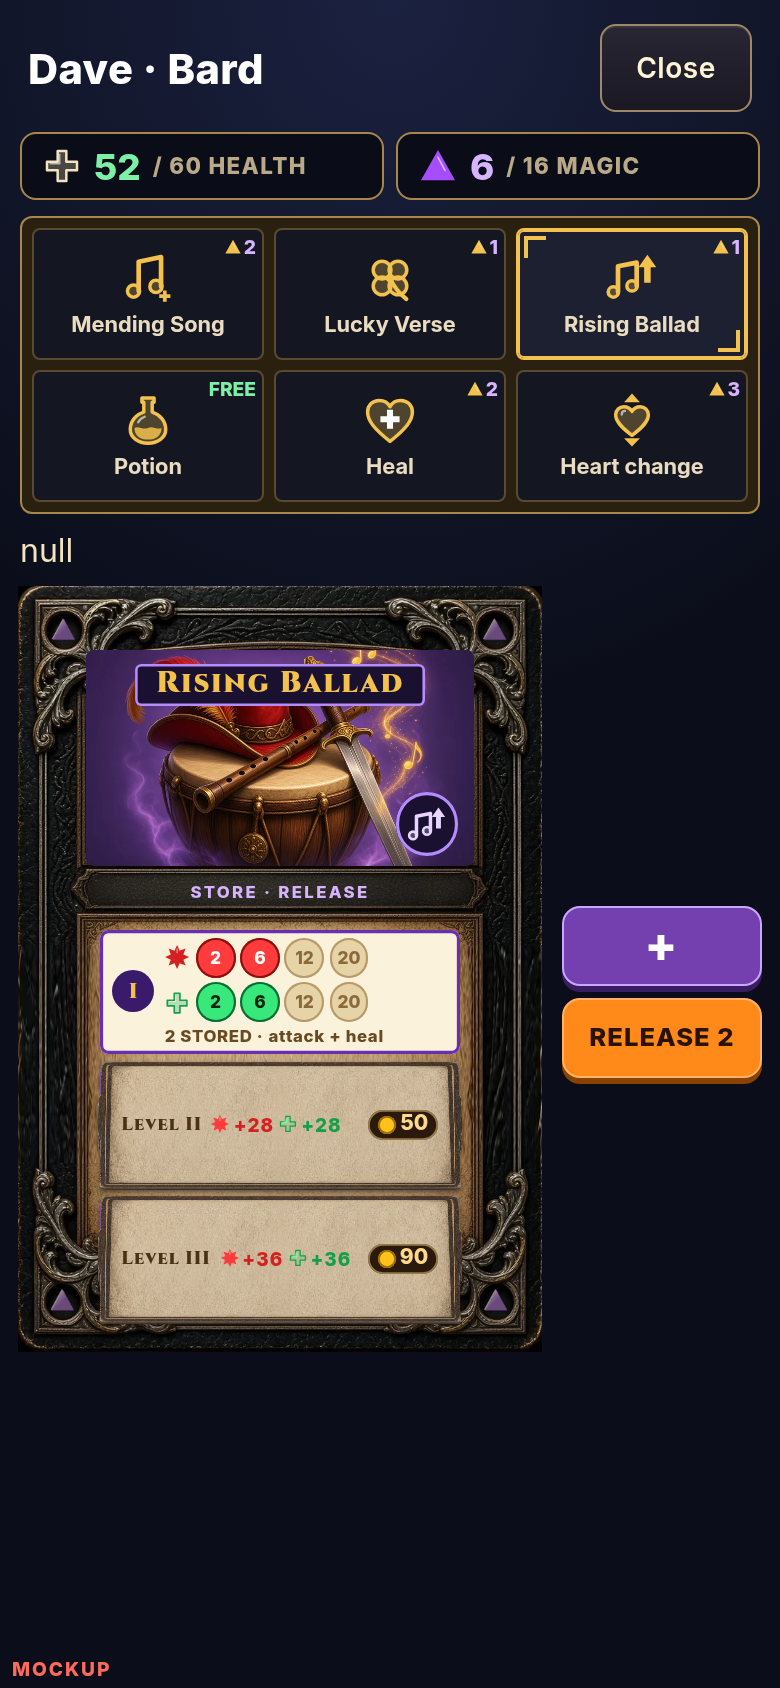
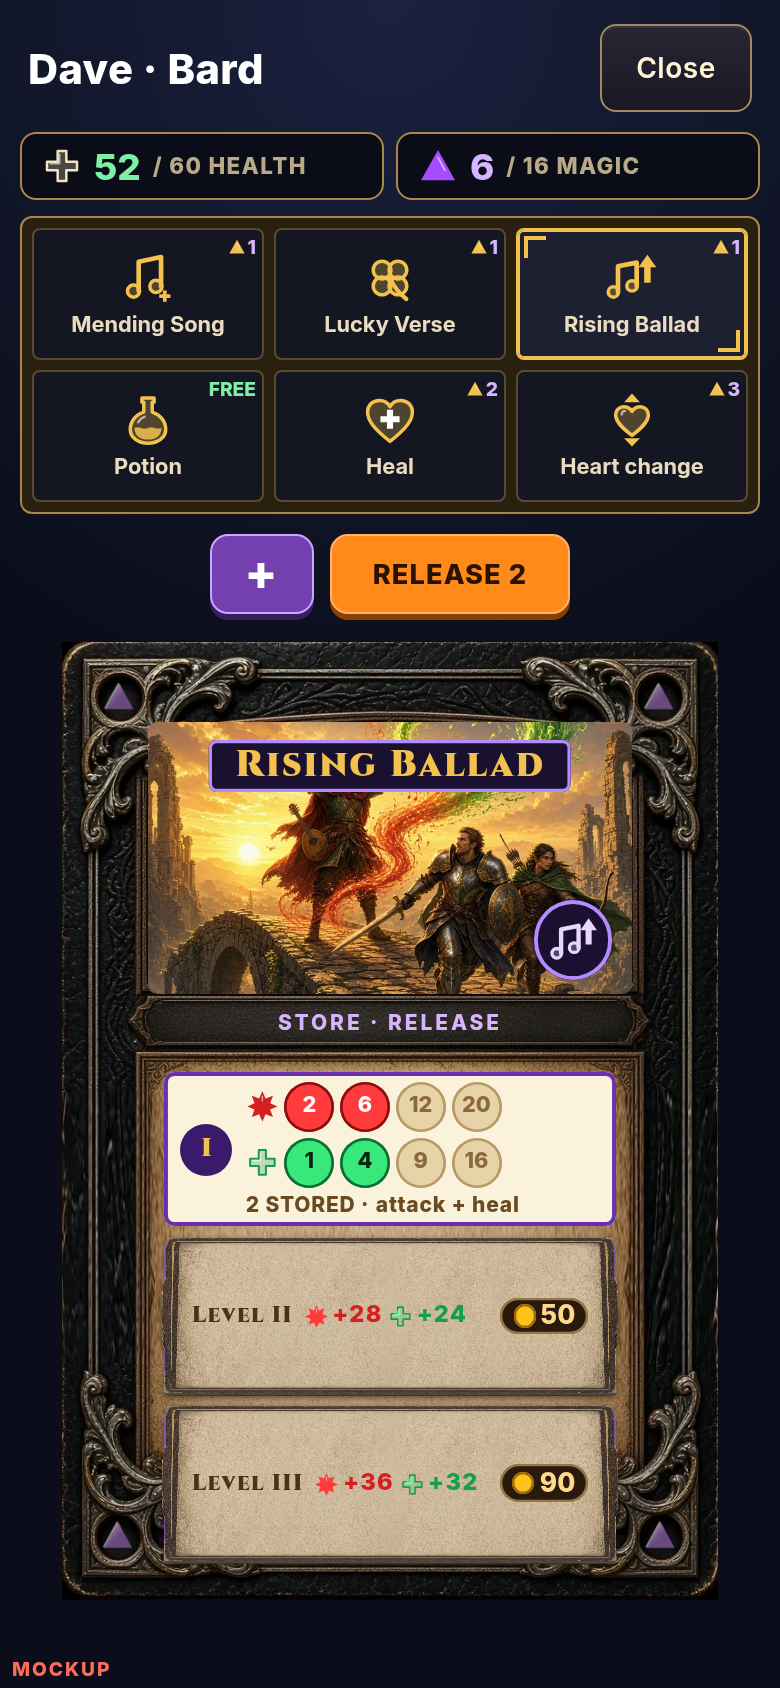
Mockup only: t424 Bard set + Dwarf decisions

diff --git a/docs/team/mockups/magiccards/magic.js b/docs/team/mockups/magiccards/magic.js
@@ -26,18 +26,18 @@ const PROP = cls === 'ranger' ? [
   { id: 'vein', slot: 'C', name: 'Gold Vein', kind: 'flat', cost: 1, fx: { block: 2, gold: 2 }, note: 'BLOCK + GOLD EVERY ROUND', prop: true },
 ] : [];
 // t422 PROPOSED tweaks shown in the mockup only (live data untouched): Rally block 3->2, Judgment area 12->10, Arc Bolt arcs (½ splash) + max 6 dice, Storm Coil per 5->4
-const TWEAK = { dwarf: { grudge: { kind: 'trick', cost: 2, fx: { atk: 1 }, lv: ['HITS TAKEN', 'HITS TAKEN +3', 'HITS TAKEN +6'], note: 'ATTACK = DAMAGE YOU TOOK LAST ROUND', prop: true }, avalanche: { aoe: 8 } }, knight: { rally: { per: { atk: 3, block: 2 } }, judgment: { aoe: 10 } }, wizard: { arcbolt: { splash: 'half', maxDice: 6, note: '½ ARCS TO EVERY OTHER MONSTER' }, coil: { per: { atk: 4 } } } };
+const TWEAK = { bard: { mending: { kind: 'scale', cost: 1, max: 6, maxDice: 6, dice: { n: 1, s: 6, to: 'heal' }, note: 'HEALS EVERY HERO IN THE PARTY', prop: true }, ballad: { per: { atk: 3, heal: 2 } }, finale: { aoe: 6 } }, dwarf: { grudge: { kind: 'trick', cost: 2, fx: { atk: 1 }, lv: ['HITS TAKEN', 'HITS TAKEN +3', 'HITS TAKEN +6'], note: 'ATTACK = DAMAGE YOU TOOK LAST ROUND', prop: true }, avalanche: { aoe: 8 } }, knight: { rally: { per: { atk: 3, block: 2 } }, judgment: { aoe: 10 } }, wizard: { arcbolt: { splash: 'half', maxDice: 6, note: '½ ARCS TO EVERY OTHER MONSTER' }, coil: { per: { atk: 4 } } } };
 if (TWEAK[cls]) C.cards = C.cards.map((k) => (TWEAK[cls][k.id] ? { ...k, ...TWEAK[cls][k.id] } : k));
 if (PROP.length) C.cards = [...C.cards, ...PROP.filter((k) => k.prop)];
 // t413 PROPOSED Aimed Shot path: I = up to 4d6, II = dice become d8 (up to 4d8), III = up to 6d8. 1 magic per die throughout.
 const AIM = [{ s: 6, m: 4 }, { s: 8, m: 4 }, { s: 8, m: 6 }]; const CLV = [{ n: 2, s: 6 }, { n: 3, s: 6 }, { n: 3, s: 8 }]; const clvP = (k) => cls === 'knight' && k?.id === 'cleave'; // t414 PROPOSED Cleave path: 2d6 / 3d6 / 3d8
 const aimP = (k) => cls === 'ranger' && k?.id === 'aimed';
 // t421 PROPOSED starter order: each hero's 3 most fun cards start; the rest are unlocks
-const ORDER = { ranger: [['aimed', 'mark', 'volley'], ['quickdraw', 'herbs', 'rain']], knight: [['cleave', 'riposte', 'rally'], ['shieldwall', 'spoils', 'judgment']], wizard: [['arcbolt', 'polymorph', 'coil'], ['meteor', 'light', 'bolt']], dwarf: [['anvil', 'grudge', 'stonehide'], ['avalanche', 'bulwark', 'vein']] };
+const ORDER = { ranger: [['aimed', 'mark', 'volley'], ['quickdraw', 'herbs', 'rain']], knight: [['cleave', 'riposte', 'rally'], ['shieldwall', 'spoils', 'judgment']], wizard: [['arcbolt', 'polymorph', 'coil'], ['meteor', 'light', 'bolt']], dwarf: [['anvil', 'grudge', 'stonehide'], ['avalanche', 'bulwark', 'vein']], bard: [['mending', 'luckyverse', 'ballad'], ['finale', 'discord', 'goldhymn']] };
 const byId = (id) => (C.cards || []).find((k) => k.id === id);
 const isProp = ORDER[cls] ? ORDER[cls][1].includes(q.get('p')) : PROP.some((k) => k.id === q.get('p'));
 const mine = ORDER[cls] ? ORDER[cls][isProp ? 1 : 0].map(byId) : isProp ? PROP : (C.cards || []).filter((k) => k.start).sort((a, b) => a.slot.localeCompare(b.slot));
-const sel = q.get('p') || mine[0].id; const selKind = (C.cards || []).find((c) => c.id === (q.get('p') || mine[0].id))?.kind; const variant = q.get('v') || (['charge', 'scale'].includes(selKind) || ['ranger', 'knight', 'wizard', 'dwarf'].includes(cls) ? 'top' : 'float'); /* t416: Ranger buttons above the card */ const charges = +(q.get('c') || 2);
+const sel = q.get('p') || mine[0].id; const selKind = (C.cards || []).find((c) => c.id === (q.get('p') || mine[0].id))?.kind; const variant = q.get('v') || (['charge', 'scale'].includes(selKind) || ['ranger', 'knight', 'wizard', 'dwarf', 'bard'].includes(cls) ? 'top' : 'float'); /* t416: Ranger buttons above the card */ const charges = +(q.get('c') || 2);
 const card = (id) => (C.cards || []).find((c) => c.id === id);
 const hero = { name: 'Dave', cls, level: 1 };
 const SVG = 'http://www.w3.org/2000/svg';
@@ -52,10 +52,10 @@ const CAST = q.has('cast'); const roll = (n, s) => { let r = 7; return Array.fro
 const dice = (n, fx, s) => Array.from({ length: n }, () => die(fx, s, 0, true)); // t412: every die on the template (orange, white pips/numbers)
 const mg = (n) => h('span', { class: 'pc' }, HK.icon('magic'), String(n));
 const eq = () => h('span', { class: 'to' }, '=');
-const ICON = { atk: 'atk', block: 'block', pierce: 'pierce', heal: 'heal', magic: 'magic', gold: 'gold', free: 'reroll' };
+const ICON = { weaken: 'weaken', atk: 'atk', block: 'block', pierce: 'pierce', heal: 'heal', magic: 'magic', gold: 'gold', free: 'reroll' };
 const fxv = (fx, n) => h('span', { class: `fv fx-${fx}` }, HK.icon(ICON[fx] || 'magic'), h('b', {}, fx === 'free' ? `${n}` : `+${n}`));
 const ln = (...k) => h('span', { class: 'ln' }, ...k); const mx = (...k) => h('span', { class: 'mx' }, ...k);
-const WORD = { pierce: 'pierce attack', atk: 'attack', heal: 'heal', gold: 'gold', block: 'block', magic: 'magic' };
+const WORD = { pierce: 'pierce attack', atk: 'attack', heal: 'heal', gold: 'gold', block: 'block', magic: 'magic', weaken: 'monsters hit softer' };
 // t409: dice bought with magic — the dice added so far (empty slots up to the max) and magic spent vs the bank, driven by ?d=
 const BANK = 6;
 const MAXD = 6; // t410 PROPOSED max dice for every buy-dice power (mockup only)

diff --git a/docs/team/mockups/magiccards/BARD.md b/docs/team/mockups/magiccards/BARD.md
@@ -1,0 +1,24 @@
+# Bard — magic card set (t424, mockup only, all new numbers PROPOSED)
+
+Identity: the party's voice — songs that heal everyone, luck, charm. Health 30.
+Method: rough value per magic at Level I vs 2 monsters (attack 1, pierce 1.3, block 0.8, gold 0.3, heal 1).
+
+## Starting 3
+| Card | Kind | What | ~Value / magic | Why |
+|---|---|---|---|---|
+| Mending Song | buy-dice (PROPOSED) | green d6 for 1 magic each, up to 6; heals EVERY hero | ~3.5 solo, more in a party | Unique party heal; the Bard's signature |
+| Lucky Verse | luck (live) | roll each round: +1 magic / +3 atk / +6 atk +1 magic | ~3.7 | Fun gamble, pure Bard flavour |
+| Rising Ballad | store-release | per charge +3 atk +2 heal (PROPOSED heal 3→2) | ~9 at 4 charges | Big payoff song; heal cut keeps it in line with other heroes' charge cards |
+
+## Unlocks
+| Card | What | ~Value / magic | Why |
+|---|---|---|---|
+| Finale | +8 atk, heal 8, +8 block, 6 to every monster (PROPOSED aoe 8→6) | ~5.7 (live ~6.4) | Capstone; trimmed to match other super cards |
+| Discord | weaken 2 every round (live) | ~3.2 | Charm/control; no longer copies anyone (Snare cut) |
+| Hymn of Gold | gold charge (live) | ~1.8 (economy) | Shop support; unique now that Spoils is attack+gold |
+
+Cuts: none needed.
+
+## Open questions
+1. Should Mending Song heal the whole party, or just one ally?
+2. Should Lucky Verse's 1–2 result give +1 magic or a reroll?

diff --git a/docs/team/mockups/magiccards/DWARF.md b/docs/team/mockups/magiccards/DWARF.md
@@ -39,3 +39,7 @@ The Dwarf is a little lower on paper, but it starts with 40 health (Knight 34, R
 ## Open questions
 - Grudge: should it count all damage taken last round, or only damage that got past your block?
 - Anvil Strike: is a gold spark on 8s fun enough, or should the Dwarf's dice be gold dice outright?
+
+## Decided (Grok, PROPOSED)
+- Grudge counts only the damage that got past your block. Blocking well and then using Grudge pays less, so the two don't stack.
+- Anvil Strike keeps the gold spark on 8s. Blue block dice stay true to the colour code, and the spark is the lucky moment.
